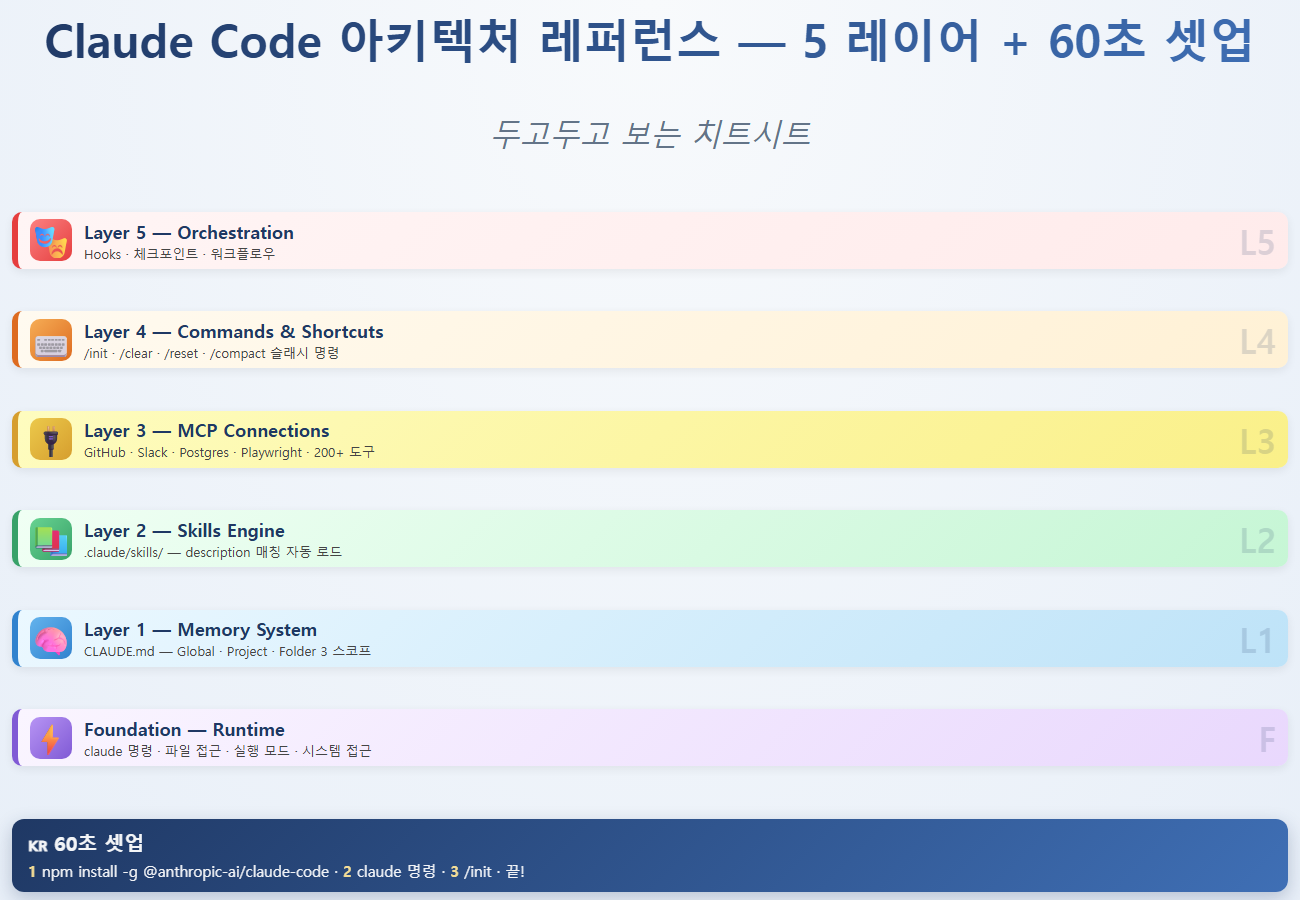
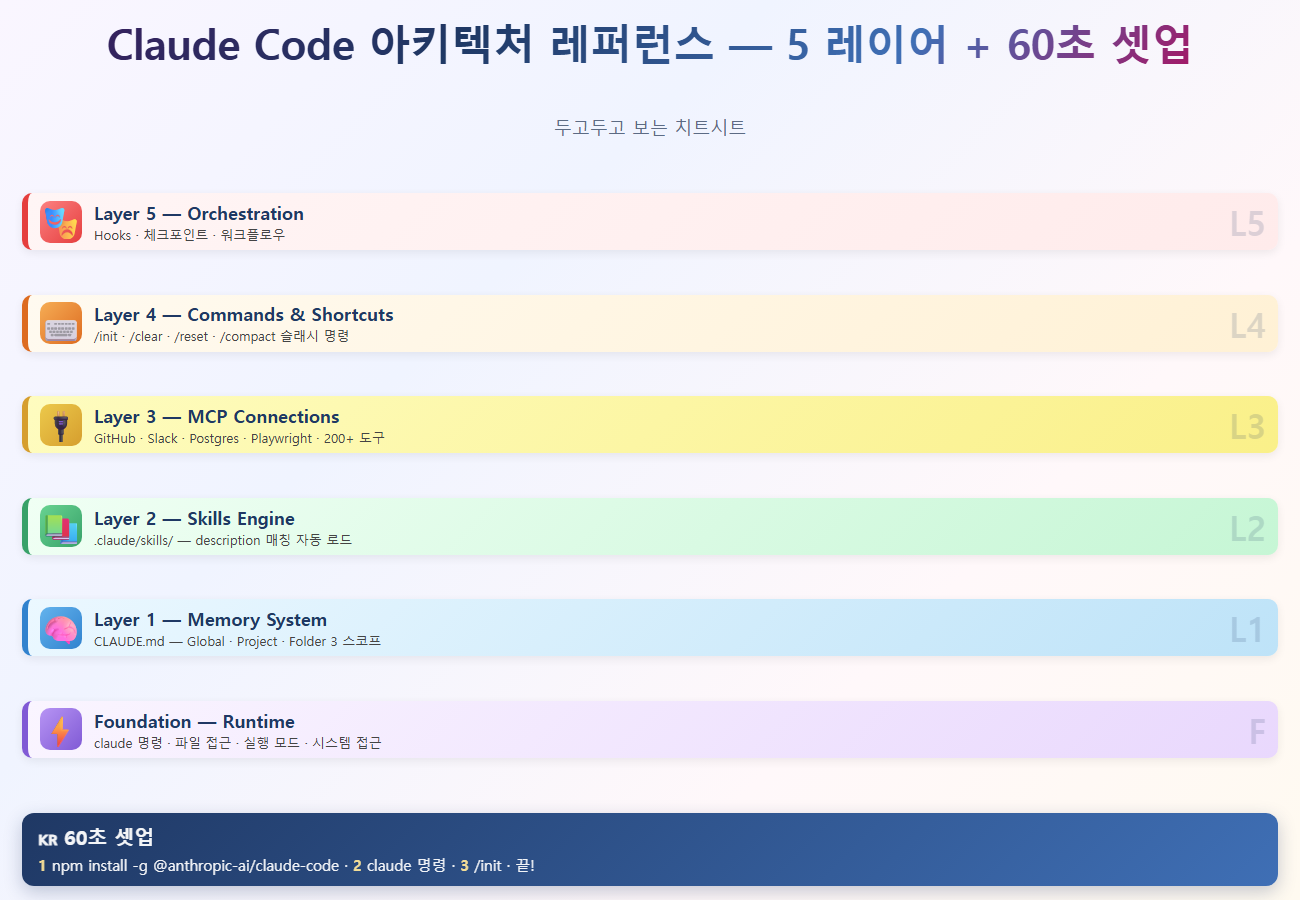
feat(lecture-phase1): 부록 A (미래직업) 제거 + 이미지 미관 강화 (그라데이션·title)
Phase 1 (전반 개편 1/3):
- 부록 A "미래 직업 TOP20" 제거 (요청)
- 부록 B → A, 부록 C → B 재정렬
- HTML title 그라데이션 풍부 (purple→navy→pink)
- body 배경 다색 그라데이션 (FAF6FF/F0F4FF/FFF8FA/FFFAF0)
- 21 PNG 재빌드 — 흰여백 PASS

orchestration_v1_team 동기화:
- docs/screens/arch-kor/ 21 PNG 복사
- build-*.py 3개 동기화
- docx 빌드 9,117,803 bytes

남은 Phase:
- Phase 2: 챕터 1~10 강사 톤 (20-50줄)
- Phase 3: 챕터 11~20 강사 톤

diff --git a/.claude/scripts/build-arch-lecture-doc.py b/.claude/scripts/build-arch-lecture-doc.py
@@ -1451,9 +1451,8 @@ H(doc, "목차", level=1)
 B(doc, "0. 들어가며")
 for i, ch in enumerate(CHAPTERS, 1):
     B(doc, ch["title"])
-B(doc, "부록 A. AI 가 대체 못 하는 미래 직업 TOP20")
-B(doc, "부록 B. 한 줄 정리")
-B(doc, "부록 C. 고퀄리티 다이어그램 도구 (Canva·Figma·Mermaid)")
+B(doc, "부록 A. 한 줄 정리")
+B(doc, "부록 B. 고퀄리티 다이어그램 도구 (Canva·Figma·Mermaid)")
 
 
 # ---- 0. 들어가며 (IMG paragraph 자체에 page_break_before — 빈 PB 페이지 방지) ----
@@ -1477,24 +1476,8 @@ for idx, ch in enumerate(CHAPTERS):
     render_chapter(doc, ch, idx=idx)
 
 
-# ---- 부록 A — 미래 직업 ----
-H(doc, "부록 A. AI 가 대체 못 하는 미래 직업 TOP20", level=1)
-callout(doc, "📚 핵심 한 줄",
-        "AI 가 손이 없거나 현장 판단이 필요한 직업들. 이 일들도 AI 와 협업하면 슈퍼파워가 됩니다.")
-IMG(doc, ARCH, "AI가-대체못하는-미래직업-TOP20.jpg", width=4.2,
-    caption="미래 유망 직업 TOP 20 (한글)")
-B(doc, "전기기사 / 배관공 / HVAC / 목수")
-B(doc, "자동차·로봇 정비 / 용접 / 조경 / 외과의 / 간호사 / 물리치료사")
-B(doc, "정신건강 상담 / 노인·장애인 돌봄 / 요리·제과 / 헤어·뷰티")
-B(doc, "조각·복원 / 크리에이티브 디렉터 / 소방·응급 / 특수교사")
-B(doc, "사회복지사 / 럭셔리 호스피탈리티")
-P(doc, "강사 한 줄: 이 목록은 '안전한 직업' 이 아니라 'AI 와 함께하면 무서운 직업'. "
-       "기술은 사람의 손·마음을 대체 못 함. 보완할 뿐.", size=11)
-PB(doc)
-
-
-# ---- 부록 B — 한 줄 정리 ----
-H(doc, "부록 B. 한 줄 정리 — 5분 안에 전체 복습", level=1)
+# ---- 부록 A — 한 줄 정리 (이전 부록 B) ----
+H(doc, "부록 A. 한 줄 정리 — 5분 안에 전체 복습", level=1)
 cheats = [
     ("Generative vs Agentic vs Agent", "글 → 단계 → 손까지. 셋이 같은 AI 아님."),
     ("AI 8가지 모델", "GPT 만 있지 않음. 작업에 맞는 뇌 골라쓰기."),
@@ -1525,8 +1508,8 @@ for k, v in cheats:
 PB(doc)
 
 
-# ---- 부록 C — 고퀄리티 도구 ----
-H(doc, "부록 C. 고퀄리티 다이어그램 도구 (가입 + MCP 등록)", level=1)
+# ---- 부록 B — 고퀄리티 도구 (이전 부록 C) ----
+H(doc, "부록 B. 고퀄리티 다이어그램 도구 (가입 + MCP 등록)", level=1)
 callout(doc, "📚 핵심 한 줄",
         "이 책 한글 다이어그램은 matplotlib 무료. 더 예쁘게 = 아래 도구 가입 + MCP 등록.")
 quality_tools = [

diff --git a/.claude/scripts/build-korean-html-diagrams.py b/.claude/scripts/build-korean-html-diagrams.py
@@ -13,12 +13,13 @@ OUT.mkdir(parents=True, exist_ok=True)
 
 CSS = """
 * { margin:0; padding:0; box-sizing:border-box; font-family:'Malgun Gothic','맑은 고딕','Pretendard',sans-serif; }
-body { width:1300px; height:900px; padding:8px 12px; overflow:hidden;
+body { width:1300px; height:900px; padding:14px 22px; overflow:hidden;
        display:flex; flex-direction:column; justify-content:space-between;
-       background:radial-gradient(ellipse at top,#F8FAFC 0%,#E8EFF8 100%); }
-.title { font-size:46px; font-weight:900; background:linear-gradient(135deg,#1F3864,#3F6FB5); -webkit-background-clip:text;
-         -webkit-text-fill-color:transparent; text-align:center; margin-bottom:6px; }
-.subtitle { font-size:30px; color:#637488; text-align:center; margin-bottom:20px; font-style:italic; }
+       background:linear-gradient(135deg,#FAF6FF 0%,#F0F4FF 35%,#FFF8FA 70%,#FFFAF0 100%); }
+.title { font-size:42px; font-weight:900; letter-spacing:-0.5px;
+         background:linear-gradient(135deg,#3B1B5C 0%,#1F3864 35%,#3F6FB5 70%,#C00050 100%);
+         -webkit-background-clip:text; -webkit-text-fill-color:transparent; text-align:center; margin-bottom:4px; }
+.subtitle { font-size:18px; color:#5C6B84; text-align:center; margin-bottom:14px; font-weight:500; }
 
 .grid2 { display:grid; grid-template-columns:1fr 1fr; gap:20px; margin-bottom:24px; }
 .grid3 { display:grid; grid-template-columns:1fr 1fr 1fr; gap:18px; margin-bottom:24px; }
